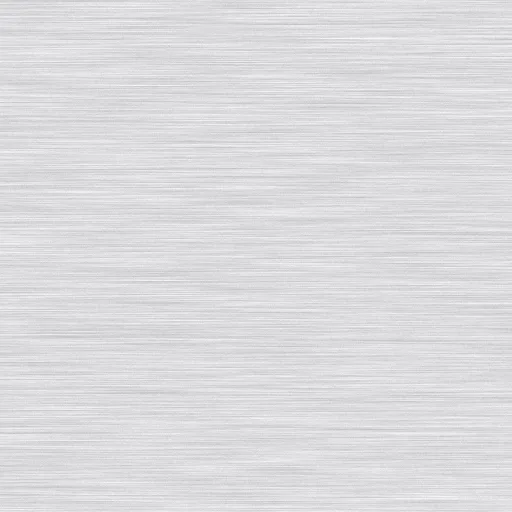
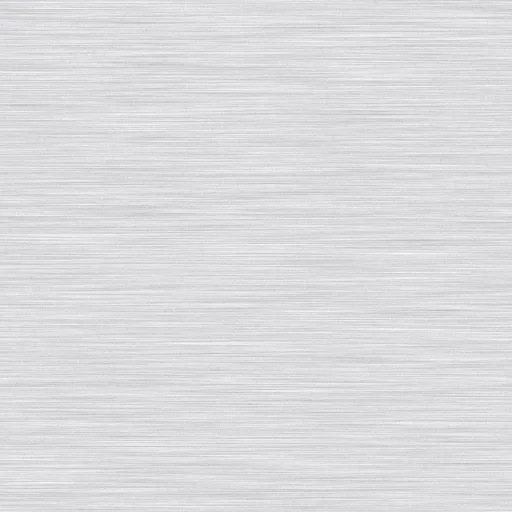
Seamless platinum tile

diff --git a/credits.html b/credits.html
@@ -4,7 +4,7 @@
 <link rel="icon" href="img/favicon.png"><link rel="preconnect" href="https://fonts.googleapis.com"><link rel="preconnect" href="https://fonts.gstatic.com" crossorigin>
 <link href="https://fonts.googleapis.com/css2?family=Montserrat:wght@400;600&family=Playfair+Display:wght@600&display=swap" rel="stylesheet" media="print" onload="this.media='all'">
 <link rel="preload" as="image" href="img/staten-island.webp" fetchpriority="high">
-<link rel="stylesheet" href="style.css?v=plat3"></head><body>
+<link rel="stylesheet" href="style.css?v=plat4"></head><body>
 <header><div class="wrap nav"><a href="index.html"><img loading="lazy" src="img/logo-hd.webp" width="679" height="200" alt="Top Properties Team · Real"></a>
 <button class="burger" aria-label="Menu" onclick="document.querySelector('.menu').classList.toggle('open')">&#9776;</button><ul class="menu"><li><a href="index.html">HOME</a></li><li><a href="https://toppropertiesnyc.com/listing" target="_blank" rel="noopener">SEARCH</a></li><li><a href="sell.html">SELL</a></li><li><a href="team.html">AGENTS</a></li><li><a href="about.html">ABOUT</a></li><li><a href="contact.html">CONTACT</a></li></ul></div></header>
 <div class="hero small"><div class="kb" style="background-image:url(img/staten-island.webp)"></div><div class="wrap"><h1>Photo credits</h1></div></div><section><div class="wrap"><ul class="crlist"><li><a href="https://commons.wikimedia.org/wiki/File:Constatine_schubert%27s_home_in_dyker_herights.JPG" target="_blank" rel="noopener">Constatine schubert's home in dyker herights</a> by Cjz208 · <a href="https://creativecommons.org/licenses/by-sa/3.0/" target="_blank" rel="noopener">CC BY-SA 3.0</a></li><li><a href="https://commons.wikimedia.org/wiki/File:Marine_Park_td_(2019-05-27)_131.jpg" target="_blank" rel="noopener">Marine Park td (2019-05-27) 131</a> by Tdorante10 · <a href="https://creativecommons.org/licenses/by-sa/4.0/" target="_blank" rel="noopener">CC BY-SA 4.0</a></li><li><a href="https://commons.wikimedia.org/wiki/File:%D0%92%D0%B8%D0%B4_%D1%81%D0%BE_%D0%A1%D1%82%D0%BE%D1%80%D0%BE%D0%BD%D1%8B_%D0%A8%D0%BE%D1%80_%D0%91%D1%83%D0%BB%D1%8C%D0%B2%D0%B0%D1%80.JPG" target="_blank" rel="noopener">Вид со стороны Шор Бульвар</a> by Multiplicitous · <a href="https://creativecommons.org/licenses/by-sa/3.0/" target="_blank" rel="noopener">CC BY-SA 3.0</a></li><li><a href="https://commons.wikimedia.org/wiki/File:Bensonhurst_Park_in_Brooklyn.jpg" target="_blank" rel="noopener">Bensonhurst Park in Brooklyn</a> by Julianna01 · <a href="https://creativecommons.org/licenses/by-sa/4.0/" target="_blank" rel="noopener">CC BY-SA 4.0</a></li><li><a href="https://unsplash.com/photos/N_FQa3IPBIQ" target="_blank" rel="noopener">Verrazzano Bridge at sunset</a> by Farid Mardanov · <a href="https://unsplash.com/license" target="_blank" rel="noopener">Unsplash License</a></li><li><a href="https://www.pexels.com/photo/staten-island-ferry-with-new-york-city-skyline-31298400/" target="_blank" rel="noopener">Staten Island Ferry with New York City Skyline</a> by Richard Harris · <a href="https://www.pexels.com/license/" target="_blank" rel="noopener">Pexels License</a></li><li><a href="https://unsplash.com/photos/houses-near-trees-RSILUMwabqc" target="_blank" rel="noopener">Houses near trees</a> by Avi Werde · <a href="https://unsplash.com/license" target="_blank" rel="noopener">Unsplash License</a></li><li>Listing photos: BrooklynMLS listings <a href="https://www.brooklynmls.com/listing/504184" target="_blank" rel="noopener">#504184</a>, <a href="https://www.brooklynmls.com/listing/504533" target="_blank" rel="noopener">#504533</a>, <a href="https://www.brooklynmls.com/listing/501944" target="_blank" rel="noopener">#501944</a> (listed by Thomas D’Alcamo Jr., Real Broker NY LLC)</li><li>Agent headshots and logo © Top Properties Team / Real Broker NY</li></ul><p>Wikimedia Commons photos are resized and compressed. No other changes were made.</p></div></section>

diff --git a/about.html b/about.html
@@ -4,7 +4,7 @@
 <link rel="icon" href="img/favicon.png"><link rel="preconnect" href="https://fonts.googleapis.com"><link rel="preconnect" href="https://fonts.gstatic.com" crossorigin>
 <link href="https://fonts.googleapis.com/css2?family=Montserrat:wght@400;600&family=Playfair+Display:wght@600&display=swap" rel="stylesheet" media="print" onload="this.media='all'">
 <link rel="preload" as="image" href="img/bay-ridge.webp" fetchpriority="high">
-<link rel="stylesheet" href="style.css?v=plat3"></head><body>
+<link rel="stylesheet" href="style.css?v=plat4"></head><body>
 <header><div class="wrap nav"><a href="index.html"><img loading="lazy" src="img/logo-hd.webp" width="679" height="200" alt="Top Properties Team · Real"></a>
 <button class="burger" aria-label="Menu" onclick="document.querySelector('.menu').classList.toggle('open')">&#9776;</button><ul class="menu"><li><a href="index.html">HOME</a></li><li><a href="https://toppropertiesnyc.com/listing" target="_blank" rel="noopener">SEARCH</a></li><li><a href="sell.html">SELL</a></li><li><a href="team.html">AGENTS</a></li><li><a href="about.html" class="on">ABOUT</a></li><li><a href="contact.html">CONTACT</a></li></ul></div></header>
 <div class="hero small"><div class="kb" style="background-image:url(img/bay-ridge.webp);background-position:center 70%"></div><div class="wrap"><div class="eyebrow" style="color:#FFFFFF">About us</div><h1>We’re your neighbors</h1><p>Lifelong Brooklyn. Here for you 24/7, from the first question to the closing table.</p></div></div>

diff --git a/team.html b/team.html
@@ -4,7 +4,7 @@
 <link rel="icon" href="img/favicon.png"><link rel="preconnect" href="https://fonts.googleapis.com"><link rel="preconnect" href="https://fonts.gstatic.com" crossorigin>
 <link href="https://fonts.googleapis.com/css2?family=Montserrat:wght@400;600&family=Playfair+Display:wght@600&display=swap" rel="stylesheet" media="print" onload="this.media='all'">
 <link rel="preload" as="image" href="img/hero-brooklyn-brownstone.webp" fetchpriority="high">
-<link rel="stylesheet" href="style.css?v=plat3"></head><body>
+<link rel="stylesheet" href="style.css?v=plat4"></head><body>
 <header><div class="wrap nav"><a href="index.html"><img loading="lazy" src="img/logo-hd.webp" width="679" height="200" alt="Top Properties Team · Real"></a>
 <button class="burger" aria-label="Menu" onclick="document.querySelector('.menu').classList.toggle('open')">&#9776;</button><ul class="menu"><li><a href="index.html">HOME</a></li><li><a href="https://toppropertiesnyc.com/listing" target="_blank" rel="noopener">SEARCH</a></li><li><a href="sell.html">SELL</a></li><li><a href="team.html" class="on">AGENTS</a></li><li><a href="about.html">ABOUT</a></li><li><a href="contact.html">CONTACT</a></li></ul></div></header>
 <div class="hero small"><div class="kb" style="background-image:url(img/hero-brooklyn-brownstone.webp)"></div><div class="wrap"><div class="eyebrow" style="color:#FFFFFF">Agents</div><h1>Say hi to the team</h1><p>Licensed agents across Brooklyn and Staten Island, all working together.</p></div></div>

diff --git a/style.css b/style.css
@@ -201,5 +201,5 @@ body{background:var(--platinum);background-color:#E9EAEC;background-attachment:f
 .trust,.feat,.app{background:repeating-linear-gradient(90deg,rgba(255,255,255,.18) 0 1px,transparent 1px 3px),linear-gradient(180deg,#E3E5E8,#D9DBDF);background-color:#DCDEE1}
 :root{--platinum:repeating-linear-gradient(90deg,rgba(255,255,255,.55) 0 1px,rgba(120,124,130,.07) 1px 2px,transparent 2px 3px,rgba(255,255,255,.25) 3px 4px,transparent 4px 6px),linear-gradient(120deg,rgba(255,255,255,0) 10%,rgba(255,255,255,.7) 38%,rgba(255,255,255,0) 60%),linear-gradient(180deg,#F1F2F4 0%,#E0E2E6 50%,#ECEDEF 100%)}
 .trust,.feat,.app{background:repeating-linear-gradient(90deg,rgba(255,255,255,.5) 0 1px,rgba(120,124,130,.08) 1px 2px,transparent 2px 4px),linear-gradient(180deg,#E3E5E8,#D9DBDF);background-color:#DCDEE1}
-body{background:linear-gradient(120deg,rgba(255,255,255,0) 10%,rgba(255,255,255,.35) 38%,rgba(255,255,255,0) 60%),url(img/platinum.webp);background-color:#E9EAEC;background-attachment:fixed,scroll}
-.trust,.feat,.app{background:linear-gradient(180deg,rgba(255,255,255,.12),rgba(0,0,0,.02)),url(img/platinum-d.webp);background-color:#DCDEE1}
+body{background:linear-gradient(120deg,rgba(255,255,255,0) 10%,rgba(255,255,255,.35) 38%,rgba(255,255,255,0) 60%),url(img/platinum.webp?v=2);background-color:#E9EAEC;background-attachment:fixed,scroll}
+.trust,.feat,.app{background:linear-gradient(180deg,rgba(255,255,255,.12),rgba(0,0,0,.02)),url(img/platinum-d.webp?v=2);background-color:#DCDEE1}

diff --git a/contact.html b/contact.html
@@ -4,7 +4,7 @@
 <link rel="icon" href="img/favicon.png"><link rel="preconnect" href="https://fonts.googleapis.com"><link rel="preconnect" href="https://fonts.gstatic.com" crossorigin>
 <link href="https://fonts.googleapis.com/css2?family=Montserrat:wght@400;600&family=Playfair+Display:wght@600&display=swap" rel="stylesheet" media="print" onload="this.media='all'">
 <link rel="preload" as="image" href="img/hero-brooklyn-brownstone.webp" fetchpriority="high">
-<link rel="stylesheet" href="style.css?v=plat3"></head><body>
+<link rel="stylesheet" href="style.css?v=plat4"></head><body>
 <header><div class="wrap nav"><a href="index.html"><img loading="lazy" src="img/logo-hd.webp" width="679" height="200" alt="Top Properties Team · Real"></a>
 <button class="burger" aria-label="Menu" onclick="document.querySelector('.menu').classList.toggle('open')">&#9776;</button><ul class="menu"><li><a href="index.html">HOME</a></li><li><a href="https://toppropertiesnyc.com/listing" target="_blank" rel="noopener">SEARCH</a></li><li><a href="sell.html">SELL</a></li><li><a href="team.html">AGENTS</a></li><li><a href="about.html">ABOUT</a></li><li><a href="contact.html" class="on">CONTACT</a></li></ul></div></header>
 <div class="hero small"><div class="kb" style="background-image:url(img/hero-brooklyn-brownstone.webp)"></div><div class="wrap"><div class="eyebrow" style="color:#FFFFFF">Contact</div><h1>Got a question? Ask us.</h1><p>Call, text, email or stop by the office. We’re here 24/7.</p></div></div>

diff --git a/sell.html b/sell.html
@@ -4,7 +4,7 @@
 <link rel="icon" href="img/favicon.png"><link rel="preconnect" href="https://fonts.googleapis.com"><link rel="preconnect" href="https://fonts.gstatic.com" crossorigin>
 <link href="https://fonts.googleapis.com/css2?family=Montserrat:wght@400;600&family=Playfair+Display:wght@600&display=swap" rel="stylesheet" media="print" onload="this.media='all'">
 <link rel="preload" as="image" href="img/sheepshead-bay.webp" fetchpriority="high">
-<link rel="stylesheet" href="style.css?v=plat3"></head><body>
+<link rel="stylesheet" href="style.css?v=plat4"></head><body>
 <header><div class="wrap nav"><a href="index.html"><img loading="lazy" src="img/logo-hd.webp" width="679" height="200" alt="Top Properties Team · Real"></a>
 <button class="burger" aria-label="Menu" onclick="document.querySelector('.menu').classList.toggle('open')">&#9776;</button><ul class="menu"><li><a href="index.html">HOME</a></li><li><a href="https://toppropertiesnyc.com/listing" target="_blank" rel="noopener">SEARCH</a></li><li><a href="sell.html" class="on">SELL</a></li><li><a href="team.html">AGENTS</a></li><li><a href="about.html">ABOUT</a></li><li><a href="contact.html">CONTACT</a></li></ul></div></header>
 <div class="hero small"><div class="kb" style="background-image:url(img/sheepshead-bay.webp)"></div><div class="wrap"><div class="eyebrow" style="color:#FFFFFF">Sell with Top Properties</div><h1>Thinking about selling?</h1><p>Here's exactly what happens when you list with us.</p></div></div>

diff --git a/dyker-heights.html b/dyker-heights.html
@@ -4,7 +4,7 @@
 <link rel="icon" href="img/favicon.png"><link rel="preconnect" href="https://fonts.googleapis.com"><link rel="preconnect" href="https://fonts.gstatic.com" crossorigin>
 <link href="https://fonts.googleapis.com/css2?family=Montserrat:wght@400;600&family=Playfair+Display:wght@600&display=swap" rel="stylesheet" media="print" onload="this.media='all'">
 <link rel="preload" as="image" href="img/dyker-heights.webp" fetchpriority="high">
-<link rel="stylesheet" href="style.css?v=plat3"></head><body>
+<link rel="stylesheet" href="style.css?v=plat4"></head><body>
 <header><div class="wrap nav"><a href="index.html"><img loading="lazy" src="img/logo-hd.webp" width="679" height="200" alt="Top Properties Team · Real"></a>
 <button class="burger" aria-label="Menu" onclick="document.querySelector('.menu').classList.toggle('open')">&#9776;</button><ul class="menu"><li><a href="index.html">HOME</a></li><li><a href="https://toppropertiesnyc.com/listing" target="_blank" rel="noopener">SEARCH</a></li><li><a href="sell.html">SELL</a></li><li><a href="team.html">AGENTS</a></li><li><a href="about.html">ABOUT</a></li><li><a href="contact.html">CONTACT</a></li></ul></div></header>
 <div class="hero small"><div class="kb" style="background-image:url(img/dyker-heights.webp)"></div><div class="wrap"><div class="eyebrow" style="color:#FFFFFF">Neighborhood guide</div><h1>Dyker Heights</h1><p>Grand detached homes, quiet tree-lined streets, and Dyker Beach Park.</p></div></div>

diff --git a/bensonhurst.html b/bensonhurst.html
@@ -4,7 +4,7 @@
 <link rel="icon" href="img/favicon.png"><link rel="preconnect" href="https://fonts.googleapis.com"><link rel="preconnect" href="https://fonts.gstatic.com" crossorigin>
 <link href="https://fonts.googleapis.com/css2?family=Montserrat:wght@400;600&family=Playfair+Display:wght@600&display=swap" rel="stylesheet" media="print" onload="this.media='all'">
 <link rel="preload" as="image" href="img/bensonhurst.webp" fetchpriority="high">
-<link rel="stylesheet" href="style.css?v=plat3"></head><body>
+<link rel="stylesheet" href="style.css?v=plat4"></head><body>
 <header><div class="wrap nav"><a href="index.html"><img loading="lazy" src="img/logo-hd.webp" width="679" height="200" alt="Top Properties Team · Real"></a>
 <button class="burger" aria-label="Menu" onclick="document.querySelector('.menu').classList.toggle('open')">&#9776;</button><ul class="menu"><li><a href="index.html">HOME</a></li><li><a href="https://toppropertiesnyc.com/listing" target="_blank" rel="noopener">SEARCH</a></li><li><a href="sell.html">SELL</a></li><li><a href="team.html">AGENTS</a></li><li><a href="about.html">ABOUT</a></li><li><a href="contact.html">CONTACT</a></li></ul></div></header>
 <div class="hero small"><div class="kb" style="background-image:url(img/bensonhurst.webp)"></div><div class="wrap"><div class="eyebrow" style="color:#FFFFFF">Neighborhood guide</div><h1>Bensonhurst</h1><p>Family homes, 86th Street and 18th Avenue shops, and the D/N trains.</p></div></div>

diff --git a/bay-ridge.html b/bay-ridge.html
@@ -4,7 +4,7 @@
 <link rel="icon" href="img/favicon.png"><link rel="preconnect" href="https://fonts.googleapis.com"><link rel="preconnect" href="https://fonts.gstatic.com" crossorigin>
 <link href="https://fonts.googleapis.com/css2?family=Montserrat:wght@400;600&family=Playfair+Display:wght@600&display=swap" rel="stylesheet" media="print" onload="this.media='all'">
 <link rel="preload" as="image" href="img/bay-ridge.webp" fetchpriority="high">
-<link rel="stylesheet" href="style.css?v=plat3"></head><body>
+<link rel="stylesheet" href="style.css?v=plat4"></head><body>
 <header><div class="wrap nav"><a href="index.html"><img loading="lazy" src="img/logo-hd.webp" width="679" height="200" alt="Top Properties Team · Real"></a>
 <button class="burger" aria-label="Menu" onclick="document.querySelector('.menu').classList.toggle('open')">&#9776;</button><ul class="menu"><li><a href="index.html">HOME</a></li><li><a href="https://toppropertiesnyc.com/listing" target="_blank" rel="noopener">SEARCH</a></li><li><a href="sell.html">SELL</a></li><li><a href="team.html">AGENTS</a></li><li><a href="about.html">ABOUT</a></li><li><a href="contact.html">CONTACT</a></li></ul></div></header>
 <div class="hero small"><div class="kb" style="background-image:url(img/bay-ridge.webp)"></div><div class="wrap"><div class="eyebrow" style="color:#FFFFFF">Neighborhood guide</div><h1>Bay Ridge</h1><p>Waterfront walks, the Verrazzano, and Third Avenue’s restaurants.</p></div></div>

diff --git a/sheepshead-bay.html b/sheepshead-bay.html
@@ -4,7 +4,7 @@
 <link rel="icon" href="img/favicon.png"><link rel="preconnect" href="https://fonts.googleapis.com"><link rel="preconnect" href="https://fonts.gstatic.com" crossorigin>
 <link href="https://fonts.googleapis.com/css2?family=Montserrat:wght@400;600&family=Playfair+Display:wght@600&display=swap" rel="stylesheet" media="print" onload="this.media='all'">
 <link rel="preload" as="image" href="img/sheepshead-bay.webp" fetchpriority="high">
-<link rel="stylesheet" href="style.css?v=plat3"></head><body>
+<link rel="stylesheet" href="style.css?v=plat4"></head><body>
 <header><div class="wrap nav"><a href="index.html"><img loading="lazy" src="img/logo-hd.webp" width="679" height="200" alt="Top Properties Team · Real"></a>
 <button class="burger" aria-label="Menu" onclick="document.querySelector('.menu').classList.toggle('open')">&#9776;</button><ul class="menu"><li><a href="index.html">HOME</a></li><li><a href="https://toppropertiesnyc.com/listing" target="_blank" rel="noopener">SEARCH</a></li><li><a href="sell.html">SELL</a></li><li><a href="team.html">AGENTS</a></li><li><a href="about.html">ABOUT</a></li><li><a href="contact.html">CONTACT</a></li></ul></div></header>
 <div class="hero small"><div class="kb" style="background-image:url(img/sheepshead-bay.webp)"></div><div class="wrap"><div class="eyebrow" style="color:#FFFFFF">Neighborhood guide</div><h1>Sheepshead Bay</h1><p>Boats on the bay, Emmons Avenue, and the B/Q train.</p></div></div>

diff --git a/staten-island.html b/staten-island.html
@@ -4,7 +4,7 @@
 <link rel="icon" href="img/favicon.png"><link rel="preconnect" href="https://fonts.googleapis.com"><link rel="preconnect" href="https://fonts.gstatic.com" crossorigin>
 <link href="https://fonts.googleapis.com/css2?family=Montserrat:wght@400;600&family=Playfair+Display:wght@600&display=swap" rel="stylesheet" media="print" onload="this.media='all'">
 <link rel="preload" as="image" href="img/staten-island.webp" fetchpriority="high">
-<link rel="stylesheet" href="style.css?v=plat3"></head><body>
+<link rel="stylesheet" href="style.css?v=plat4"></head><body>
 <header><div class="wrap nav"><a href="index.html"><img loading="lazy" src="img/logo-hd.webp" width="679" height="200" alt="Top Properties Team · Real"></a>
 <button class="burger" aria-label="Menu" onclick="document.querySelector('.menu').classList.toggle('open')">&#9776;</button><ul class="menu"><li><a href="index.html">HOME</a></li><li><a href="https://toppropertiesnyc.com/listing" target="_blank" rel="noopener">SEARCH</a></li><li><a href="sell.html">SELL</a></li><li><a href="team.html">AGENTS</a></li><li><a href="about.html">ABOUT</a></li><li><a href="contact.html">CONTACT</a></li></ul></div></header>
 <div class="hero small"><div class="kb" style="background-image:url(img/staten-island.webp)"></div><div class="wrap"><div class="eyebrow" style="color:#FFFFFF">Neighborhood guide</div><h1>Staten Island</h1><p>Just over the bridge — more space, more yard.</p></div></div>

diff --git a/marine-park.html b/marine-park.html
@@ -4,7 +4,7 @@
 <link rel="icon" href="img/favicon.png"><link rel="preconnect" href="https://fonts.googleapis.com"><link rel="preconnect" href="https://fonts.gstatic.com" crossorigin>
 <link href="https://fonts.googleapis.com/css2?family=Montserrat:wght@400;600&family=Playfair+Display:wght@600&display=swap" rel="stylesheet" media="print" onload="this.media='all'">
 <link rel="preload" as="image" href="img/marine-park.webp" fetchpriority="high">
-<link rel="stylesheet" href="style.css?v=plat3"></head><body>
+<link rel="stylesheet" href="style.css?v=plat4"></head><body>
 <header><div class="wrap nav"><a href="index.html"><img loading="lazy" src="img/logo-hd.webp" width="679" height="200" alt="Top Properties Team · Real"></a>
 <button class="burger" aria-label="Menu" onclick="document.querySelector('.menu').classList.toggle('open')">&#9776;</button><ul class="menu"><li><a href="index.html">HOME</a></li><li><a href="https://toppropertiesnyc.com/listing" target="_blank" rel="noopener">SEARCH</a></li><li><a href="sell.html">SELL</a></li><li><a href="team.html">AGENTS</a></li><li><a href="about.html">ABOUT</a></li><li><a href="contact.html">CONTACT</a></li></ul></div></header>
 <div class="hero small"><div class="kb" style="background-image:url(img/marine-park.webp)"></div><div class="wrap"><div class="eyebrow" style="color:#FFFFFF">Neighborhood guide</div><h1>Marine Park</h1><p>Brick homes next to Brooklyn’s biggest park.</p></div></div>
